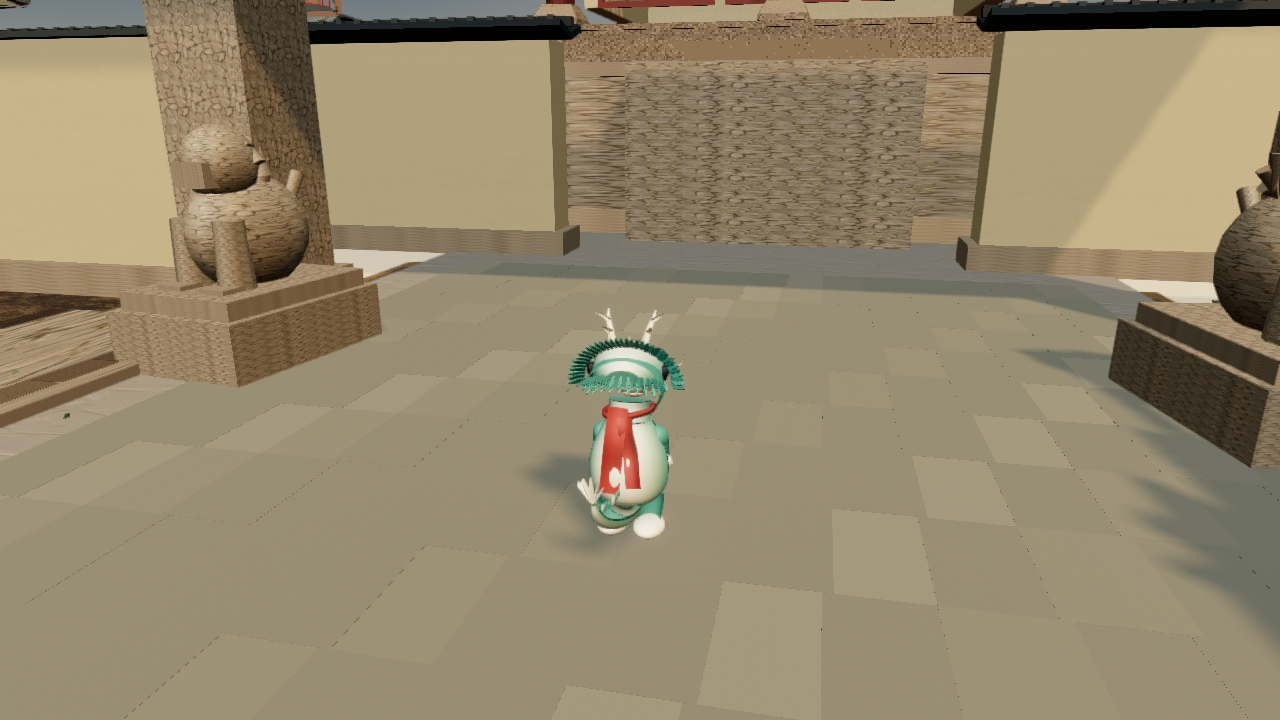
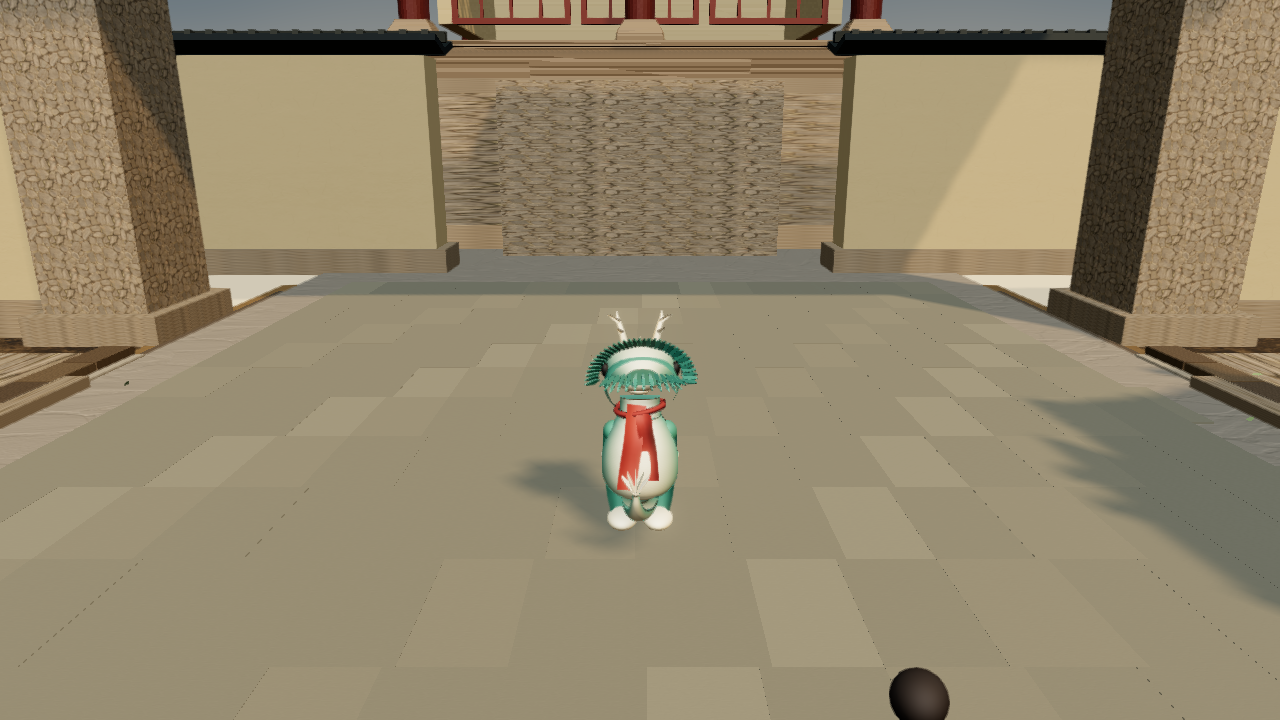
Remove the stone lions after three failed shapes

diff --git a/src/hero-street.js b/src/hero-street.js
@@ -1335,88 +1335,6 @@
     return group;
   }
 
-  /* 石狮：用体块拼出可辨认的坐狮轮廓（须弥座 + 身 + 前腿 + 昂起的头 + 鬃鬣）。
-   * 街景尺度上不求写实，只求读得出"一对石兽蹲在坊门前"。
-   * 石狮朝外守门，因此朝向随坊门的 facing 一起转。 */
-  function addStoneLion(parent, x, z, facing, side) {
-    const lion = new THREE.Group();
-    lion.position.set(x, 0, z);
-    // 石狮要够大才读得出"镇守"：初版约 1.5m 高，在 4.5m 外只有一小团。
-    lion.scale.setScalar(1.45);
-    lion.rotation.y = facing > 0 ? 0 : Math.PI;
-    lion.name = 'gate-stone-lion';
-
-    const stone = materials.stone;
-    const dark = materials.darkWood;
-
-    // 须弥座
-    const pedestal = new THREE.Mesh(new THREE.BoxGeometry(1.05, 0.42, 1.35), stone);
-    pedestal.position.set(0, 0.21, 0);
-    pedestal.castShadow = pedestal.receiveShadow = true;
-    lion.add(pedestal);
-    const pedTop = new THREE.Mesh(new THREE.BoxGeometry(0.92, 0.12, 1.22), stone);
-    pedTop.position.set(0, 0.48, 0);
-    lion.add(pedTop);
-
-    // 身：坐姿，前高后低
-    const body = new THREE.Mesh(new THREE.SphereGeometry(1, 14, 10), stone);
-    body.scale.set(0.34, 0.40, 0.44);
-    body.position.set(0, 0.86, -0.05);
-    body.castShadow = true;
-    lion.add(body);
-
-    // 前腿：两根立柱，撑在须弥座上
-    for (const lx of [-0.18, 0.18]) {
-      const leg = new THREE.Mesh(new THREE.CylinderGeometry(0.10, 0.12, 0.52, 8), stone);
-      leg.position.set(lx, 0.72, 0.26);
-      leg.castShadow = true;
-      lion.add(leg);
-      const paw = new THREE.Mesh(new THREE.BoxGeometry(0.20, 0.10, 0.26), stone);
-      paw.position.set(lx, 0.52, 0.34);
-      lion.add(paw);
-    }
-
-    // 头：昂起，略侧向街心
-    const head = new THREE.Mesh(new THREE.SphereGeometry(1, 12, 10), stone);
-    head.scale.set(0.25, 0.25, 0.23);
-    head.position.set(0, 1.32, 0.10);
-    head.castShadow = true;
-    lion.add(head);
-    // 吻部
-    const muzzle = new THREE.Mesh(new THREE.BoxGeometry(0.26, 0.16, 0.18), stone);
-    muzzle.position.set(0, 1.26, 0.26);
-    lion.add(muzzle);
-    // 眼：两颗暗点，正面能看出朝向
-    for (const ex of [-0.10, 0.10]) {
-      const eye = new THREE.Mesh(new THREE.SphereGeometry(0.032, 8, 6), dark);
-      eye.position.set(ex, 1.38, 0.24);
-      lion.add(eye);
-    }
-    // 鬃鬣：一圈短锥，从颅后向外，读作石狮的卷鬃
-    for (let i = 0; i < 12; i++) {
-      const a = (i / 12) * Math.PI * 2;
-      const tuft = new THREE.Mesh(new THREE.ConeGeometry(0.055, 0.20, 5), stone);
-      tuft.position.set(
-        Math.cos(a) * 0.21,
-        1.34 + Math.sin(a) * 0.13,
-        -0.05 + Math.sin(a) * 0.10,
-      );
-      tuft.rotation.z = a;
-      tuft.castShadow = true;
-      lion.add(tuft);
-    }
-    // 尾：从身后上卷
-    const tail = new THREE.Mesh(new THREE.CylinderGeometry(0.055, 0.03, 0.46, 6), stone);
-    tail.position.set(0, 1.02, -0.44);
-    tail.rotation.x = -0.55;
-    lion.add(tail);
-
-    // 面朝街心一侧略偏，两只狮子的头因此不完全平行。
-    lion.rotation.y += side * 0.16 * (facing > 0 ? 1 : -1);
-    parent.add(lion);
-    return lion;
-  }
-
   function createGate(z = -39.2, facing = 1) {
     const gate = new THREE.Group();
     gate.name = 'west-market-gate';
@@ -1434,12 +1352,6 @@
       cap.castShadow = cap.receiveShadow = true;
       gate.add(cap);
     }
-    // 坊门两侧的一对石狮：唐式坊门本有石兽守门，
-    // 只有石柱与门楼时，门洞读成"一个洞"，缺少镇守的体量。
-    for (const side of [-1, 1]) {
-      addStoneLion(gate, side * 4.55, z + facing * 2.35, facing, side);
-    }
-
     const lintel = new THREE.Mesh(new THREE.BoxGeometry(13.45, 0.48, 0.58), materials.darkWood);
     lintel.position.set(0, 5.0, z);
     lintel.castShadow = lintel.receiveShadow = true;

diff --git a/docs/REBUILD_PLAN.md b/docs/REBUILD_PLAN.md
@@ -788,6 +788,21 @@
 - 修后门洞区域地面连续，褐色土面消失。
 - 复审 1280×720 / 844×390 均 passed，3976/4006 calls、约 347/351 万三角形。
 
+### 同轮：石狮三版失败并移除（建筑第三十二轮）
+
+- 近景看坊门时发现石狮**背对街心**（臀部朝街）。查代码：石狮吻部建在局部 -Z，
+  而朝向按"吻部朝 +Z"设，所以方向反了。
+- 修正朝向之后问题反而更明显：**造型本身不合格**。三版全部失败：
+  1. 球体身 + 球体头 + 12 根尖锥鬃 → 读成"球堆 + 棍子"。
+  2. 方正体块 + 一圈鬃毛方块 → 正面鬃环挡住脸，读成"方塔 + 圆环"。
+  3. 减法版（只留座/胯/胸/首/腿五块）→ 压到 1.5m 后完全看不出是狮子。
+- **决定移除**：三版都读不出造型，留着只会添乱。已删除 `addStoneLion`
+  与调用，门洞区域改为只保留门柱、照壁与铺装。
+- 这印证一条规律：小体量、非自建的细节造型，在 4-5m 观看距离上
+  靠"加细节"很难救；要么有真正的雕塑级模型，要么不做。
+  用程序化体块硬凑一只可辨认的狮子，成本远高于收益。
+- 复审 1280×720 / 844×390 均 passed，3860/3890 calls、约 347/351 万三角形。
+
 ## 决策记录
 
 - 构件几何统一以"底面 z=0"为基准，便于按层堆叠与复用。
